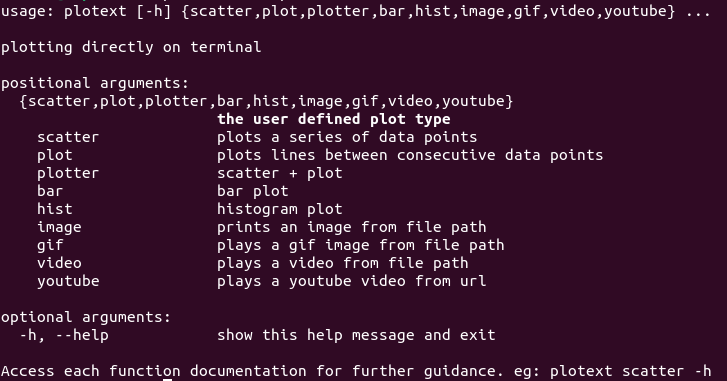
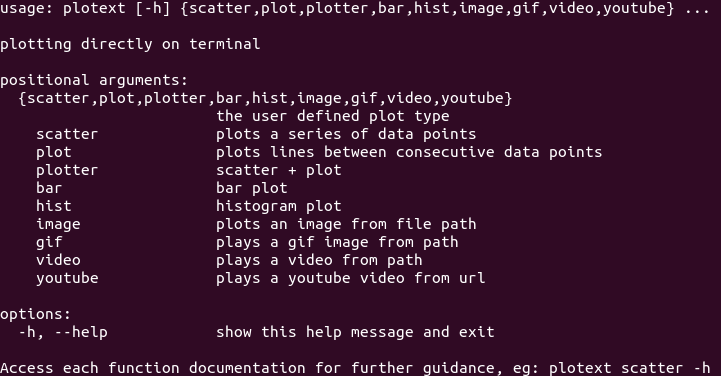
5.1 utilities readme update

diff --git a/plotext/plotext_cli.py b/plotext/plotext_cli.py
@@ -125,26 +125,26 @@ def build_parser():
                                    description = "plots a series of data points",
                                    parents = [path_parser, data_parser, common_parser, options_parser],
                                    help = 'plots a series of data points',
-                                   epilog = "eg: plotext scatter --file test --columns 2 3 --marker hd --color red+ --title 'Test Scatter Plot' --xlabel Time --ylabel Price --grid True")
+                                   epilog = "eg: plotext scatter --path test --xcolumn 1 --ycolumns 2 --lines 5000 --title 'Scatter Plot Test'")
 
 
     plot = subparser.add_parser('plot',
                                 parents = [path_parser, data_parser, common_parser, options_parser],
                                 description = "plots lines between consecutive data points",
                                 help = 'plots lines between consecutive data points',
-                                epilog = "eg: plotext plot --file test --columns 1 3 --marker hd --color magenta --title 'Test Plot' --xlabel Time --ylabel Price --grid False")
+                                epilog = "eg:plotext plot --path test --xcolumn 1 --ycolumns 2 --sleep 0.1 --lines 230 --clear_terminal True --color magenta+ --title 'Plot Test'")
 
     plotter = subparser.add_parser('plotter',
                                    parents = [path_parser, data_parser, common_parser, options_parser],
                                    description = 'plots a series of data points and the lines between consecutive ones', 
                                    help = 'scatter + plot',
-                                   epilog = "eg: plotext plotter --file test --columns 1 2 --marker x --color blue+ --title 'Test Plotter' --xlabel x")
+                                   epilog = "eg: plotext plotter --path test --xcolumn 1 --ycolumns 2 --sleep 0.1 --lines 2500 --clear_terminal True --marker braille --title 'Plotter Test'")
  
     bar = subparser.add_parser('bar',
                                parents = [path_parser, data_parser, common_parser, options_parser, barhist_parser],
                                description = 'builds a bar plot',
                                help = 'bar plot',
-                               epilog = "eg: plotext bar --file test --columns 1 3 --marker sd --color red+ --fill False --width 0.5")
+                               epilog = "eg: plotext bar --path test --xcolumn 1 --title 'Bar Plot Test' --xlabel Animals --ylabel Count")
 
     bar.add_argument("-w", "--width",
                             nargs   = 1,
@@ -156,7 +156,7 @@ def build_parser():
                                 parents = [path_parser, data_parser, common_parser, options_parser, barhist_parser],
                                 description = 'builds a histogram plot',
                                 help = 'histogram plot',
-                                epilog = "eg: plotext hist --file test --columns 1 3 --marker sd --color orange+ --title 'Test Hist Plot' --fill True --bins 15")
+                                epilog = "eg: plotext hist --path test --xcolumn 1 --ycolumns 2 --lines 5000 --title 'Histogram Test'")
 
     hist.add_argument("-b", "--bins",
                             nargs   = 1,
@@ -168,19 +168,19 @@ def build_parser():
                                  parents = [path_parser, common_parser],
                                  description = 'plots an image from path',
                                  help = 'plots an image from file path',
-                                 epilog = "eg: plotext image --file test")
+                                 epilog = "eg: plotext image --path test")
     
     gif = subparser.add_parser('gif',
                                parents = [path_parser, common_parser],
                                description = 'plays a gif image from path',
                                help = 'plays a gif image from path',
-                               epilog = "eg: plotext gif --file test")
+                               epilog = "eg: plotext gif --path test")
 
     video = subparser.add_parser('video',
                                  parents = [path_parser, common_parser],
                                  description = 'plays a video from path',
                                  help = 'plays a video from path',
-                                 epilog = "eg: plotext video --file test --from_youtube True")
+                                 epilog = "eg: plotext video --path test --from_youtube True")
 
     video.add_argument("-fy", "--from_youtube",
                                 nargs   = 1,

diff --git a/plotext/_core.py b/plotext/_core.py
@@ -330,13 +330,13 @@ def play_youtube(url):
     best = video.getbest()
     _play_video(best.url, from_youtube = True)
 
-def get_youtube(url, path):
+def get_youtube(url, path, log = True):
     import pafy
     video = pafy.new(url)
     best = video.getbest(preftype = "mp4")
     path = _ut.correct_path(path)
     path = best.download(filepath = path)
-    print('video downloaded in', path)
+    print('video downloaded in', path) if log else None
     return path
 
 def _play_video(path, from_youtube = False):

diff --git a/readme/utilities.md b/readme/utilities.md
@@ -12,10 +12,10 @@
 ## Clearing Functions
 Here are all the available clear functions:
 
-- `clear_figure()`, in short `clf()`, clears **all internal definitions** of the subplot it refers to, including its subplots; if it refers to the entire figure, it will clear everything,
-- `clear_data()`, in short `cld()`, clears only the **data information** relative to the active subplot, without clearing all the other plot settings,
-- `clear_color()`, in short `clc()`, clears only the **color settings** relative to the active subplot, without clearing all other plot settings; the final rendering of this subplot will be colorless; this function is equivalent to `theme('clear')`,
-- `clear_terminal()`, in short `clt()`, clears the **terminal screen** and it is generally useful before plotting a continuous stream of data; it is recommended to use it before `show()`; if its `lines` parameter is set to an integer, only the specified number of lines will be cleared; in this case, it is recommended to use it after `show()`. Note that, depending on shell used, few extra lines may be printed after the plot.
+- `clear_figure()` - in short `clf()` - clears **all internal definitions** of the subplot it refers to, including its subplots; if it refers to the entire figure, it will clear everything,
+- `clear_data()` - in short `cld()` - clears only the **data information** relative to the active subplot, without clearing all the other plot settings,
+- `clear_color()` - in short `clc()` - clears only the **color settings** relative to the active subplot, without clearing all other plot settings; the final rendering of this subplot will be colorless; this function is equivalent to `theme('clear')`,
+- `clear_terminal()` - in short `clt()` - clears the **terminal screen** and it is generally useful before plotting a continuous stream of data; it is recommended to use it before `show()`; if its `lines` parameter is set to an integer, only the specified number of lines will be cleared; in this case, it is recommended to use it after `show()`. Note that, depending on shell used, few extra lines may be printed after the plot.
 
 [Main Guide](https://github.com/piccolomo/plotext#guide), [Utilities](https://github.com/piccolomo/plotext/blob/master/readme/utilities.md#utilities)
 
@@ -23,16 +23,16 @@ Here are all the available clear functions:
 ## Useful Functions
 - `savefig(path)` saves the colourless version of the plot, as a text file, at the `path` specified:
     - if the path extension is `.html` the colors will be preserved,
-    - if its parameter `keep_colors` is `True`, the `txt` version will keep the ansi color codes; in this case, in linux systems, the plot could be rendered on terminal with the command `less -R` followed by the path where the plot is saved,
+    - if its parameter `keep_colors` is `True`, the `txt` version will keep the ansi color codes; in this case, in linux systems, the plot could be rendered on terminal with the command `less -R` followed by the file path,
     - to easily manipulate **file paths**, use the tools recommended in [this section](https://github.com/piccolomo/plotext/blob/master/readme/utilities.md#file-utilities),
 - `build()` is equivalent to `show()` except that the final figure canvas is returned as a string and not printed,
 - `time(time)` returns the computation time of the latest `show()` or `build()` functions,
-- `terminal_size()`, in short `ts()`, returns the width and height of the terminal,
-- `terminal_width()`, in short `tw()`, returns the width of the terminal,
-- `terminal_height()`, in short `th()`, returns the height of the terminal,
-- `sleep()` adds a sleeping time to the computation,
+- `terminal_size()` - in short `ts()` - returns the width and height of the terminal,
+- `terminal_width()` - in short `tw()` - returns the width of the terminal,
+- `terminal_height()` - in short `th()` - returns the height of the terminal,
+- `sleep(time)` adds a sleeping time to the computation,
 - `sin(amplitude, periods, length, phase, decay)` outputs a sinusoidal signal with the given parameters: its documentation is available using `doc.sin()`,
-- `transpose(matrix)` to transpose a matrix,
+- `transpose(matrix)` simply transposes a matrix,
 - `version()` returns the version of the current installed `plotext` package.
 
 [Main Guide](https://github.com/piccolomo/plotext#guide), [Utilities](https://github.com/piccolomo/plotext/blob/master/readme/utilities.md#utilities)
@@ -46,16 +46,17 @@ Here are all the available clear functions:
 - `join_paths(string1, string2 ...)` joins as many strings into a proper file path; eg: `plt.file.join_paths("/", "home", "file.txt")` returns `/home/file.txt`; if its first parameter is `~`, it will be interpreted as the user home folder; if no folder is specified, the home folder is considered,
 - `save_text(text, path)` saves some text to the `path` specified,
 - `read_data(path, delimiter, columns, header)` reads numerical data from the `path` specified, using the given `delimiter` between data columns (by default the space character), selecting the specified list of `columns` (starting from 1); the parameter `header` is used to include or not the first data row,
-- `write_data(data, path, delimiter, columns)` write a matrix of data at the `path` specified,
-- `download(url, path)` downloads an image/gif/video or other from the given `url` to the `path` selected,
-- `get_youtube(url, path)` downloads a youtube video from the given `url` to the `path` selected,
-- `delete_file(path)` deletes `path`, if it is a file.
-- A series of test files can be downloaded using the following url paths in conjunction with the function `download()`:
-    - `test_data_url`  is the url path of some 3 columns test data,
-    - `test_image_url` is the url path of a test image,
-    - `test_gif_url` is the url path of a test GIF image,
-    - `test_video_url` is the url path of a test video,
-    - `test_youtube_url` is the url link to a test YouTube video.
+- `write_data(data, path, delimiter, columns, log)` write a matrix of data at the `path` specified; if `log` is True a final message is printed,
+- `download(url, path, log = True)` downloads an image/gif/video or other, from the given `url` to the `path` selected,
+- `get_youtube(url, path, log = True)` downloads a YouTube video from the given `url` to the `path` selected,
+- `delete_file(path, log = True)` deletes `path`, if it is a file,
+- a series of test files can be downloaded using the following url paths in conjunction with the function `download()`:
+    - `test_data_url`  is the url of some 3 columns test data,
+    - `test_bar_data_url` is the url of a simple 2 columns data used to test the `bar()` plot,
+    - `test_image_url` is the url of a test image,
+    - `test_gif_url` is the url of a test GIF image,
+    - `test_video_url` is the url of a test video,
+    - `test_youtube_url` is the url to a test YouTube video.
 
 [Main Guide](https://github.com/piccolomo/plotext#guide), [Utilities](https://github.com/piccolomo/plotext/blob/master/readme/utilities.md#utilities)
 

diff --git a/readme/environments.md b/readme/environments.md
@@ -35,7 +35,7 @@ plx.from_matplotlib(fig)
 plx.show()
 ```
 
-![matplotlib](https://raw.githubusercontent.com/piccolomo/plotext/master/images/matplotlib.png)
+![matplotlib](https://raw.githubusercontent.com/piccolomo/plotext/master/data/matplotlib.png)
 
 These feature is under development: please report any bug, with some possible idea on how to fix it.
 
@@ -263,7 +263,7 @@ if __name__ == '__main__':
 ```
 which outputs:
 
-![tkinter](https://raw.githubusercontent.com/piccolomo/plotext/master/images/tkinter.png)
+![tkinter](https://raw.githubusercontent.com/piccolomo/plotext/master/data/tkinter.png)
 
 - using the `scale` slider one can change the font size; lower font size makes the final plot bigger, which requires more computational time,
 - the `Save` button saves the plots as an `html` file in the user home folder.
